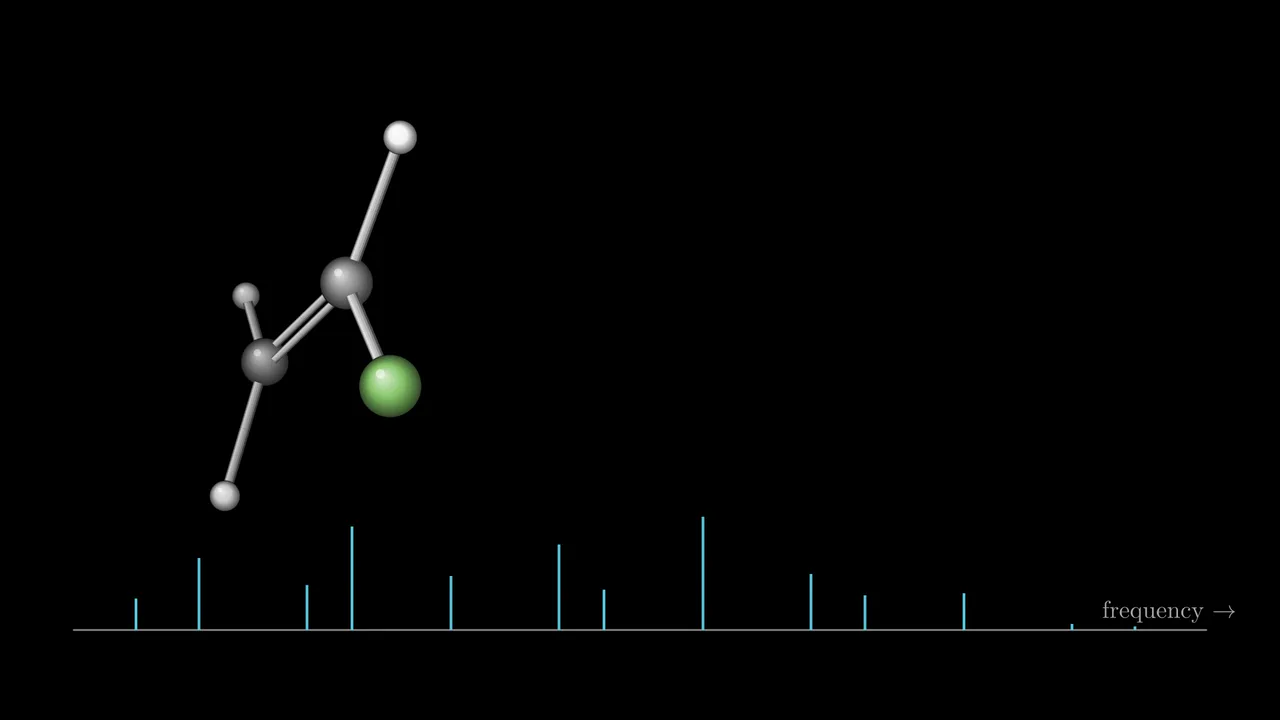
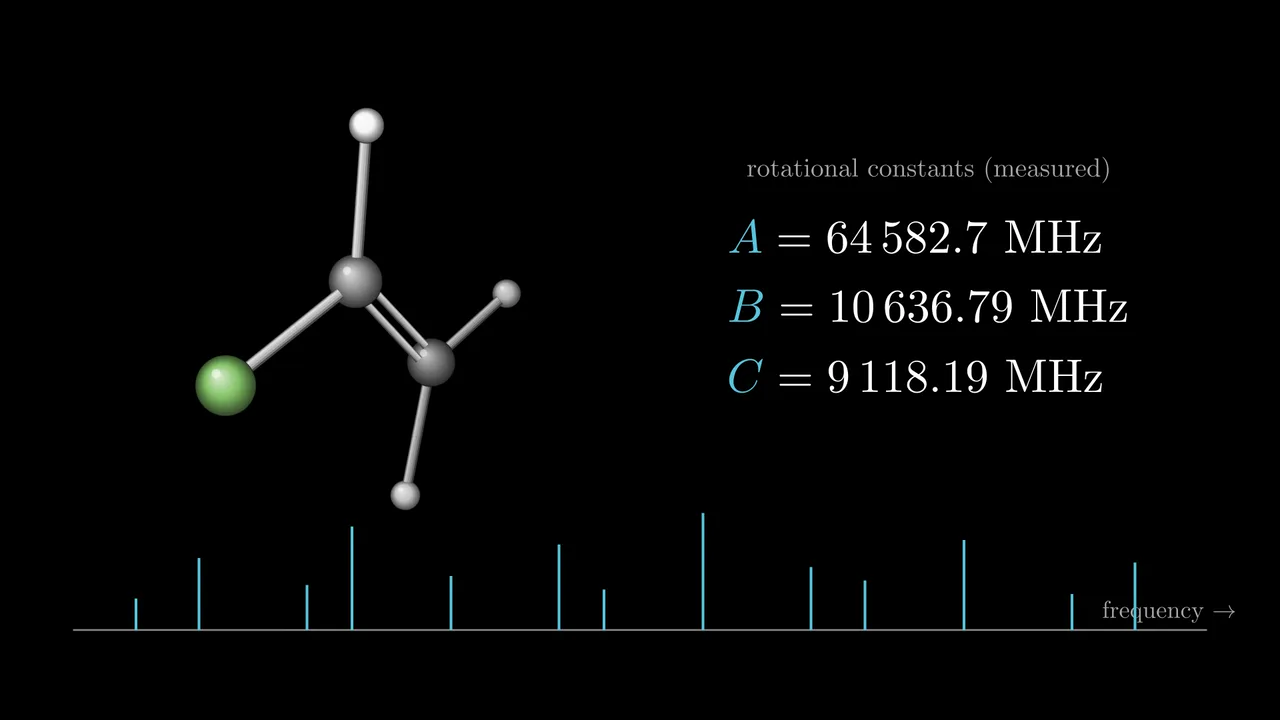
Quantize's video gets a page of its own to link: /video/quantize/
The narrated explainer plays on its own page, so it has a link to send
(LinkedIn): the video first, wider than the column, waiting on its poster
under a paper-and-ink play button, then its title, a line about it, and
links to the write-up and the code. A sent link shows the video's frame
14 s in (the molecule beside its measured rotational constants) under the
same play button (video-og.png), with its own title and line, not the
site's card. The poster is now that frame too.

The videos the write-ups play move to components/home/videos.ts, which
both pages read; a video with a `share` gets a page.

diff --git a/components/home/videos.ts b/components/home/videos.ts
@@ -1,0 +1,63 @@
+/** a page of its own for a video, so it has a link to send (LinkedIn, say):
+ *  /video/<id>/ (app/video/[id]/page.tsx), with its title, a line about it,
+ *  the picture a sent link shows (drawn by work/ref/video-og.mjs) and the
+ *  project's code */
+export type Share = { title: string; about: string; og: string; code?: string };
+
+/** a video a write-up can play, from a button beside its code link: the path
+ *  without its ending (a .webm and an .mp4), its poster, and what it shows */
+export type Video = { src?: string; poster?: string; embed?: string; caption: string; sound?: boolean; share?: Share };
+
+export const VIDEOS: Record<string, Video> = {
+  // the videos Nathan made for LinkedIn (work/ref/project-videos.mjs)
+  aether6: {
+    // a new name, not flight: browsers kept the old clip cached under that one
+    src: '/projects/aether6/circuit',
+    poster: '/projects/aether6/circuit.webp',
+    caption: 'The autonomous circuit: the autopilot flying the waypoints lap after lap on its own estimate',
+  },
+  // two clips from the old site's gallery (components/signs/gallery.ts), silent loops
+  aero: {
+    src: '/projects/aero/1',
+    poster: '/projects/aero/1.webp',
+    caption: 'An aircraft in the 3D tunnel: its wake replayed as a time-lapse while the camera orbits',
+  },
+  ignis: {
+    src: '/projects/ignis/1',
+    poster: '/projects/ignis/1.webp',
+    caption: 'The RS-25’s plume, marched from rest and drawn as a GPU volume inside NASA’s model of the bell',
+  },
+  // Terra's video, as its landing page (terra-orchard-landing.vercel.app) embeds it
+  terra: {
+    embed: 'https://www.youtube-nocookie.com/embed/awrDA6VIbRQ?autoplay=1&rel=0',
+    caption: 'Terra, from its landing page',
+  },
+  // the narrated explainer from his application (work/ref/quantize-video.mjs):
+  // it has sound, so it plays once, unmuted, rather than as a silent loop.
+  // Its poster is the frame 14 s in, the molecule beside its measured
+  // constants, which is also the picture its link shows
+  quantize: {
+    src: '/projects/quantize/video',
+    poster: '/projects/quantize/video.webp',
+    caption: 'Quantize, explained: recovering a molecule’s shape from how it spins, with theory deciding where the data are blind',
+    sound: true,
+    share: {
+      title: 'Quantize, explained',
+      about: 'Recovering a molecule’s shape from how it spins, with theory deciding where the data are blind. A four-minute narrated explainer.',
+      og: '/projects/quantize/video-og.png',
+      code: 'https://github.com/Nathan-W123/Quantize',
+    },
+  },
+  sparlab: {
+    src: '/projects/sparlab/tower',
+    poster: '/projects/sparlab/tower.webp',
+    caption: 'An algorithm designs a tower: under a 1 kN load and 100 N·m of torsion, 176 iterations move the material to where the strain energy is highest, and a truss is left',
+  },
+  // H + H2 -> H2 + H, run for this page by the engine itself (UHF/6-31G forces,
+  // velocity Verlet at 0.25 fs) and drawn by work/ref/h3-render.mjs
+  'ab-initio-md': {
+    src: '/projects/ab-initio-md/reaction',
+    poster: '/projects/ab-initio-md/reaction.webp',
+    caption: 'H + H₂ → H₂ + H, run by the engine with Hartree–Fock forces at every step: a hydrogen atom (blue) flies into H₂, takes one of its atoms and sends the other away, and the total energy stays flat',
+  },
+};

diff --git a/components/home/projects.tsx b/components/home/projects.tsx
@@ -10,6 +10,7 @@ import { Peek, Zoom, type PeekSet } from './peek';
 import { EQUATIONS } from './equations';
 import { PLACES } from './project-pictures';
 import { SHOT_SIZE } from './shot-sizes';
+import { VIDEOS } from './videos';
 
 /**
  * Projects, laid out like Work: a line down the left with a dot at each
@@ -200,54 +201,6 @@ const writeUp = (c: Card, body: string[]): ReactNode[][] => {
     out.push(text.slice(pos));
     return out;
   });
-};
-
-/** a video a write-up can play, from a button beside its code link: the path
- *  without its ending (a .webm and an .mp4), its poster, and what it shows */
-const VIDEOS: Record<string, { src?: string; poster?: string; embed?: string; caption: string; sound?: boolean }> = {
-  // the videos Nathan made for LinkedIn (work/ref/project-videos.mjs)
-  aether6: {
-    // a new name, not flight: browsers kept the old clip cached under that one
-    src: '/projects/aether6/circuit',
-    poster: '/projects/aether6/circuit.webp',
-    caption: 'The autonomous circuit: the autopilot flying the waypoints lap after lap on its own estimate',
-  },
-  // two clips from the old site's gallery (components/signs/gallery.ts), silent loops
-  aero: {
-    src: '/projects/aero/1',
-    poster: '/projects/aero/1.webp',
-    caption: 'An aircraft in the 3D tunnel: its wake replayed as a time-lapse while the camera orbits',
-  },
-  ignis: {
-    src: '/projects/ignis/1',
-    poster: '/projects/ignis/1.webp',
-    caption: 'The RS-25’s plume, marched from rest and drawn as a GPU volume inside NASA’s model of the bell',
-  },
-  // Terra's video, as its landing page (terra-orchard-landing.vercel.app) embeds it
-  terra: {
-    embed: 'https://www.youtube-nocookie.com/embed/awrDA6VIbRQ?autoplay=1&rel=0',
-    caption: 'Terra, from its landing page',
-  },
-  // the narrated explainer from his application (work/ref/quantize-video.mjs):
-  // it has sound, so it plays once, unmuted, rather than as a silent loop
-  quantize: {
-    src: '/projects/quantize/video',
-    poster: '/projects/quantize/video.webp',
-    caption: 'Quantize, explained: recovering a molecule’s shape from how it spins, with theory deciding where the data are blind',
-    sound: true,
-  },
-  sparlab: {
-    src: '/projects/sparlab/tower',
-    poster: '/projects/sparlab/tower.webp',
-    caption: 'An algorithm designs a tower: under a 1 kN load and 100 N·m of torsion, 176 iterations move the material to where the strain energy is highest, and a truss is left',
-  },
-  // H + H2 -> H2 + H, run for this page by the engine itself (UHF/6-31G forces,
-  // velocity Verlet at 0.25 fs) and drawn by work/ref/h3-render.mjs
-  'ab-initio-md': {
-    src: '/projects/ab-initio-md/reaction',
-    poster: '/projects/ab-initio-md/reaction.webp',
-    caption: 'H + H₂ → H₂ + H, run by the engine with Hartree–Fock forces at every step: a hydrogen atom (blue) flies into H₂, takes one of its atoms and sends the other away, and the total energy stays flat',
-  },
 };
 
 /** what each project is built with, shown under its write-up: the languages,

diff --git a/app/video/[id]/page.tsx b/app/video/[id]/page.tsx
@@ -1,0 +1,74 @@
+import type { Metadata } from 'next';
+import { notFound } from 'next/navigation';
+import { Shell } from '@/components/home/chrome';
+import { VIDEOS } from '@/components/home/videos';
+import { Watch } from '@/components/home/watch';
+
+/**
+ * A project's video on a page of its own, so it has a link to send: one page
+ * for each video in components/home/videos.ts with a `share`, at
+ * /video/<id>/. A sent link shows the share's picture (the video's frame
+ * under a play button) with its title and line, not the site's own card.
+ */
+type Props = { params: Promise<{ id: string }> };
+
+const shared = (id: string) => {
+  const v = VIDEOS[id];
+  return v?.src && v.share ? { ...v, src: v.src, share: v.share } : null;
+};
+
+export const dynamicParams = false;
+
+export function generateStaticParams() {
+  return Object.keys(VIDEOS)
+    .filter((id) => shared(id))
+    .map((id) => ({ id }));
+}
+
+export async function generateMetadata({ params }: Props): Promise<Metadata> {
+  const { id } = await params;
+  const v = shared(id);
+  if (!v) return {};
+  const url = `/video/${id}/`;
+  const { title, about, og } = v.share;
+  // the whole of openGraph and twitter, since a page's replace the layout's
+  return {
+    title: `${title} · Nathan W.`,
+    description: about,
+    alternates: { canonical: url },
+    openGraph: {
+      title,
+      description: about,
+      url,
+      siteName: 'Nathan W.',
+      type: 'video.other',
+      images: [{ url: og, type: 'image/png', width: 1200, height: 630, alt: v.caption }],
+      // whole, since Next leaves a video's address as written (an image's it completes)
+      videos: [{ url: `https://nateward.me${v.src}.mp4`, type: 'video/mp4', width: 1280, height: 720 }],
+    },
+    twitter: { card: 'summary_large_image', title, description: about, images: [og] },
+  };
+}
+
+export default async function Page({ params }: Props) {
+  const { id } = await params;
+  const v = shared(id);
+  if (!v) notFound();
+  return (
+    <Shell page="projects">
+      <Watch src={v.src} poster={v.poster} caption={v.caption} sound={v.sound} />
+      <section className="nw-col nw-section nw-watch-text" aria-labelledby="nw-watch-title">
+        <h1 id="nw-watch-title">{v.share.title}</h1>
+        <p className="nw-lede">{v.share.about}</p>
+        <p className="nw-proj-link nw-watch-links">
+          <a href={`/projects/#${id}`}>Read the write-up</a>
+          {v.share.code && (
+            <a href={v.share.code} target="_blank" rel="noreferrer">
+              Code ↗
+            </a>
+          )}
+        </p>
+      </section>
+    </Shell>
+  );
+}

diff --git a/components/home/watch.tsx b/components/home/watch.tsx
@@ -1,0 +1,62 @@
+'use client';
+
+import { useCallback, useRef, useState } from 'react';
+
+/**
+ * A project's video on a page of its own (app/video/[id]), the link that is
+ * sent. One with sound (a narrated explainer) waits on its poster under a
+ * round play button, the one its link's picture shows, and plays with sound
+ * and the browser's controls once that is pressed; a silent clip loops
+ * muted from the start, as it does in the write-up.
+ */
+export function Watch({ src, poster, caption, sound = false }: { src: string; poster?: string; caption: string; sound?: boolean }) {
+  const video = useRef<HTMLVideoElement | null>(null);
+  const [started, setStarted] = useState(!sound);
+  // a silent clip: muted as an attribute as well as a property (React only
+  // sets the property, and iOS Safari judges autoplay by the attribute), as
+  // the banners' loops are (chrome.tsx)
+  const mount = useCallback(
+    (v: HTMLVideoElement | null) => {
+      video.current = v;
+      if (!v || sound) return;
+      v.muted = true;
+      v.defaultMuted = true;
+      v.setAttribute('muted', '');
+      v.play()?.catch(() => {});
+    },
+    [sound],
+  );
+  const play = () => {
+    setStarted(true);
+    // in the press itself, so the browser lets it play with sound; if it is
+    // refused anyway, the controls are showing now, and their play works
+    video.current?.play()?.catch(() => {});
+  };
+  return (
+    <figure className="nw-watch">
+      <div className="nw-watch-frame">
+        <video
+          ref={mount}
+          poster={poster}
+          controls={started}
+          autoPlay={!sound}
+          loop={!sound}
+          muted={!sound}
+          playsInline
+          preload={sound ? 'metadata' : 'auto'}
+          aria-label={caption}
+        >
+          <source src={`${src}.webm`} type="video/webm" />
+          <source src={`${src}.mp4`} type="video/mp4" />
+        </video>
+        {!started && (
+          <button type="button" className="nw-watch-play" aria-label="Play the video, with sound" onClick={play}>
+            <svg viewBox="0 0 24 24" aria-hidden="true">
+              <path d="M8 5.2v13.6L18.6 12z" />
+            </svg>
+          </button>
+        )}
+      </div>
+    </figure>
+  );
+}

diff --git a/components/home/home.css b/components/home/home.css
@@ -648,6 +648,59 @@ html:has(.nw) {
 }
 .nw-proj-video:focus-visible { outline: 1px solid var(--ink); outline-offset: 3px; }
 
+/* ---- a project's video on a page of its own (app/video/[id]), the link
+   that is sent: the video first and wider than the column, then its title,
+   a line about it and the links, in the column ---- */
+.nw-watch {
+  width: 100%;
+  max-width: calc(1040px + 2 * var(--gut));
+  margin: 40px auto 0;
+  padding: 0 var(--gut);
+}
+.nw-watch-frame {
+  position: relative;
+  aspect-ratio: 16 / 9;
+  border-radius: 8px;
+  overflow: hidden;
+  background: #000;
+  box-shadow: 0 22px 44px -30px rgb(40 25 10 / 0.7);
+}
+.nw-watch-frame video {
+  display: block;
+  width: 100%;
+  height: 100%;
+  object-fit: contain;
+  background: #000;
+}
+/* the same paper disc and ink triangle as the picture the link shows */
+.nw-watch-play {
+  --d: clamp(56px, 9vw, 84px);
+  position: absolute;
+  left: 50%;
+  top: 50%;
+  width: var(--d);
+  height: var(--d);
+  margin: calc(var(--d) / -2) 0 0 calc(var(--d) / -2);
+  display: grid;
+  place-items: center;
+  padding: 0;
+  border: 0;
+  border-radius: 50%;
+  background: rgb(249 246 239 / 0.94);
+  color: var(--ink);
+  cursor: pointer;
+  box-shadow: 0 12px 30px -12px rgb(0 0 0 / 0.7);
+  transition: transform 0.2s cubic-bezier(0.22, 1, 0.3, 1);
+}
+.nw-watch-play svg { width: 44%; height: 44%; margin-left: 6%; fill: currentColor; }
+.nw-watch-play:hover { transform: scale(1.06); }
+.nw-watch-play:focus-visible { outline: 2px solid var(--bg); outline-offset: 4px; }
+@media (prefers-reduced-motion: reduce) {
+  .nw-watch-play { transition: none; }
+}
+.nw-watch-text.nw-section { padding-top: 26px; }
+.nw-watch-links { margin: 16px 0 0; }
+
 /* ---- chess: Gambit's board on a page of its own, after the reference's game page ---- */
 .nw-chess p { margin: 0 0 12px; }
 .nw-chess-board {
